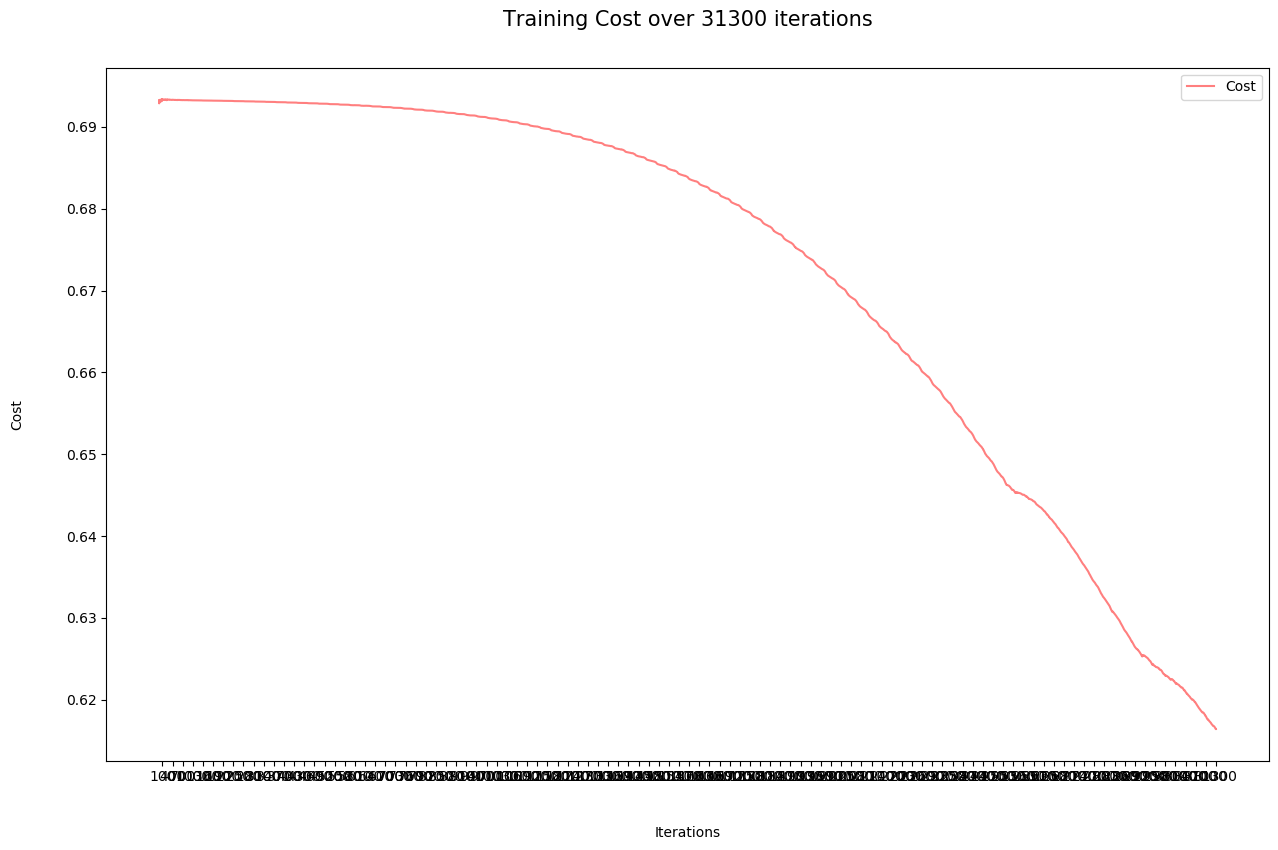
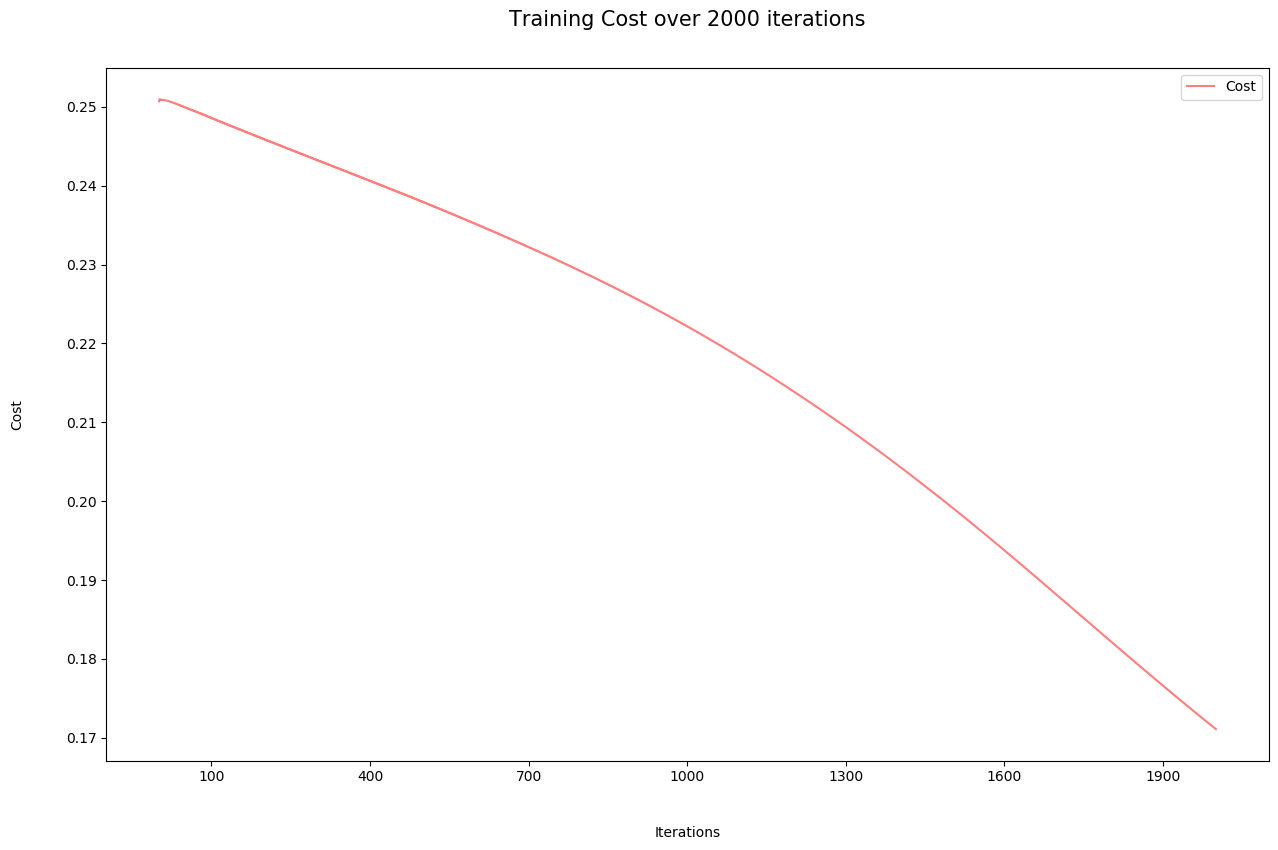
Bug Fixes in Preprocessing and in loss functions

diff --git a/src/test/test_network.c b/src/test/test_network.c
@@ -6,20 +6,20 @@ int main(){
   
   create_model();
   
-  int x_train_dims[] = {12288,20000};
+  int x_train_dims[] = {12288,100};
   dARRAY * x_train = load_x_train(x_train_dims);
 
-  int x_cv_dims[] = {12288,2000};
+  int x_cv_dims[] = {12288,20};
   dARRAY * x_cv = load_x_cv(x_cv_dims);
   
-  int y_train_dims[] = {1,20000};
+  int y_train_dims[] = {1,100};
   dARRAY * y_train = load_y_train(y_train_dims);
   
-  int y_cv_dims[] = {1,2000};
+  int y_cv_dims[] = {1,20};
   dARRAY * y_cv = load_y_cv(y_cv_dims);
   
-  int x_test_dims[] = {12288,2000};
-  int y_test_dims[] = {1,2000};
+  int x_test_dims[] = {12288,20};
+  int y_test_dims[] = {1,20};
 
   dARRAY * x_test = load_x_test(x_test_dims);
   dARRAY * y_test = load_y_test(y_test_dims);
@@ -27,10 +27,12 @@ int main(){
   Input(.layer_size=12288);
   Dense(.layer_size=64,.activation="relu",.initializer="he",.layer_type="hidden");
   Dense(.layer_size=32,.activation="relu",.initializer="he",.layer_type="hidden");
+  Dense(.layer_size=32,.activation="relu",.layer_type="hidden");
   Dense(.layer_size=16,.activation="relu",.layer_type="hidden");
   Dense(.layer_size=1,.activation="sigmoid",.initializer="random",.layer_type="output");
   Model(.x_train=x_train,.Y_train=y_train,.x_cv=x_cv,.Y_cv=y_cv,.x_test=x_test,.Y_test=y_test,\
-        .num_iter=100,.learning_rate=4e-3,.optimizer="momentum",.checkpoint_every=-1,.mini_batch_size=64
+        .num_iter=1000,.learning_rate=4e-3,.optimizer="sgd",.checkpoint_every=-1,.mini_batch_size=64,.regularization="L2",.lambda=5e-4,\
+        .loss="MSELoss"
        );
 
   // m->load_model("test_patch2.t7");

diff --git a/src/loss_functions/MSELoss.c b/src/loss_functions/MSELoss.c
@@ -7,7 +7,7 @@ mse_loss_layer * loss_layer_mse = NULL;
 void forward_pass_MSE_LOSS(){
   //Store the number of training examples in a variable
   int number_of_examples = m->y_train_mini_batch[m->current_mini_batch]->shape[1];
-  dARRAY * Y = loss_layer_mse->gnd_truth;
+  dARRAY * Y = m->y_train_mini_batch[m->current_mini_batch];
   dARRAY * loss = NULL;
 
   dARRAY * temp_sub = subtract(m->output,Y);
@@ -72,7 +72,7 @@ void forward_pass_MSE_LOSS(){
 }
 
 void backward_pass_MSE_LOSS(){
-  dARRAY * Y = loss_layer_mse->gnd_truth;
+  dARRAY * Y = m->y_train_mini_batch[m->current_mini_batch];
   dARRAY * temp = subtract(m->output,Y);
   loss_layer_mse->grad_out = mulScalar(temp,2.0);
   free2d(temp);
@@ -85,6 +85,6 @@ void (MSELoss)(mse_loss_args args){
   loss_layer_mse->grad_out = NULL;
   loss_layer_mse->forward = forward_pass_MSE_LOSS;
   loss_layer_mse->backward = backward_pass_MSE_LOSS;
-  loss_layer_mse->gnd_truth = m->y_train_mini_batch[m->current_mini_batch];
+  // loss_layer_mse->gnd_truth = m->y_train_mini_batch[m->current_mini_batch];
   append_graph(loss_layer_mse,"loss");
 }

diff --git a/src/loss_functions/cross_entropy_loss.c b/src/loss_functions/cross_entropy_loss.c
@@ -188,6 +188,6 @@ void (cross_entropy_loss)(cross_entropy_loss_args args){
   loss_layer->grad_out = NULL;
   loss_layer->forward = forward_pass_L2_LOSS;
   loss_layer->backward = backward_pass_L2_LOSS;
-  loss_layer->gnd_truth = m->y_train_mini_batch[m->current_mini_batch];
+  // loss_layer->gnd_truth = m->y_train_mini_batch[m->current_mini_batch];
   append_graph(loss_layer,"loss");
 }
